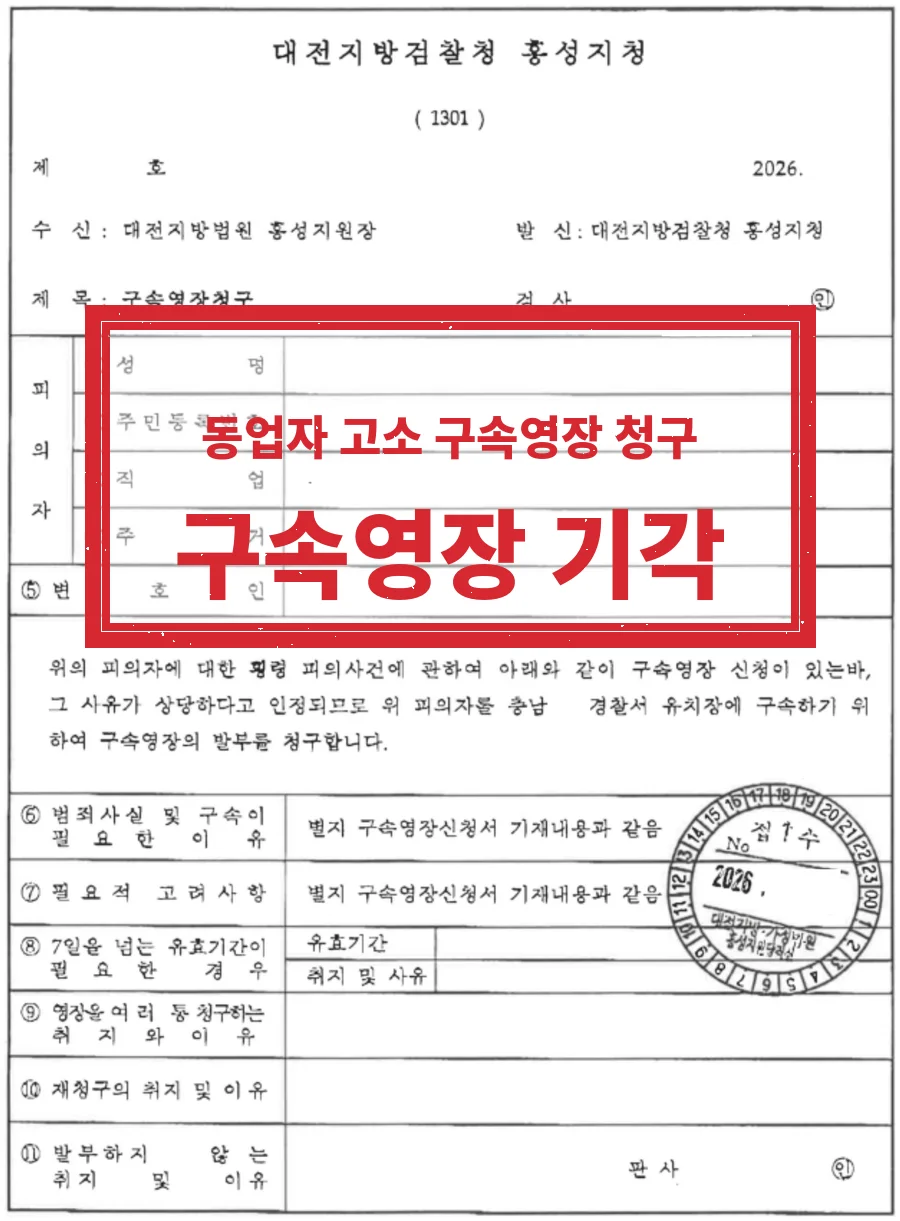
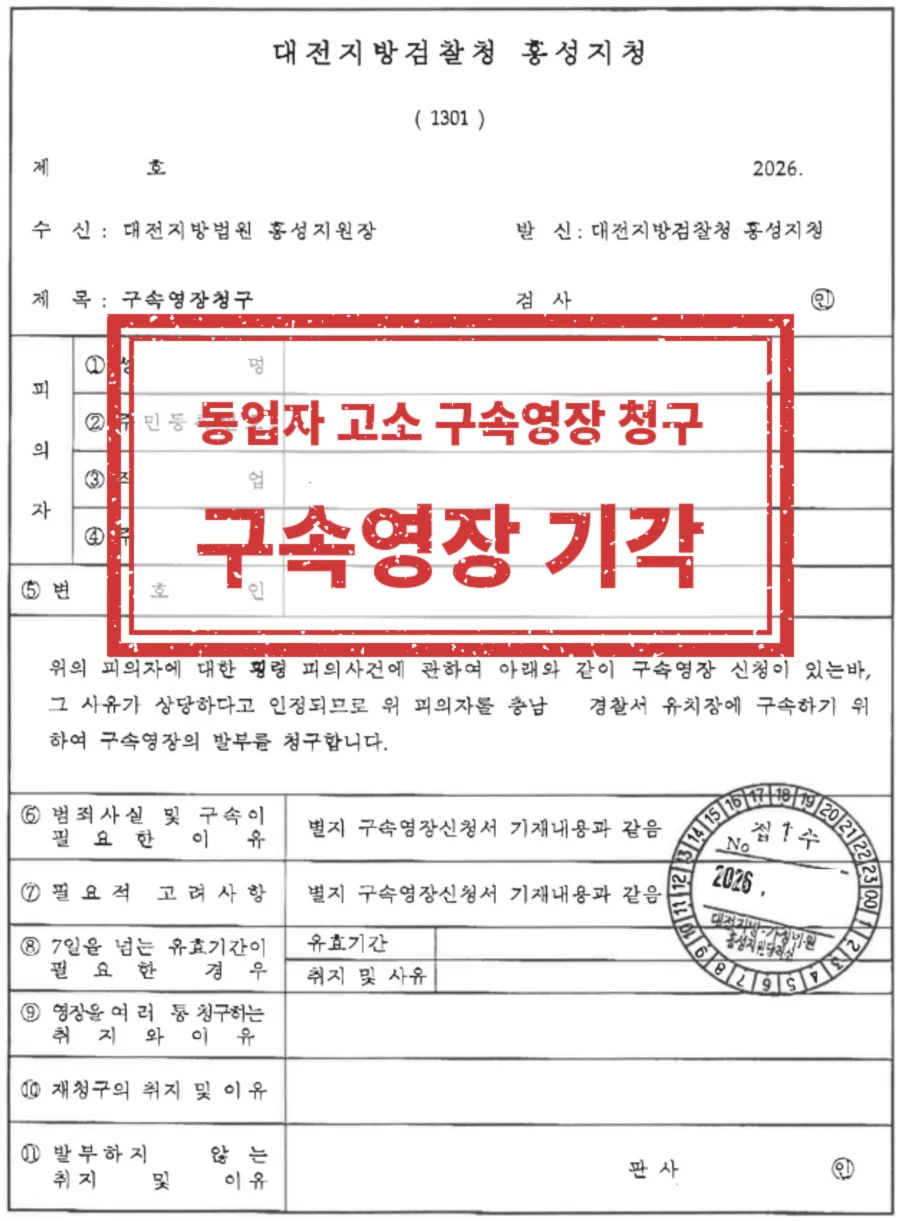
성공사례 case-18 도장 이미지를 기존 사례 도장과 같은 위치·모양으로 다시 제작
Claude-Session: https://claude.ai/code/session_019BpyvRfw1kgAhxY1Ym6REe

Changed region(s): [[0.0933, 0.249, 0.9333, 0.5602]]

diff --git a/guide-gunsan-baeim.html b/guide-gunsan-baeim.html
@@ -198,8 +198,8 @@
       <h2 class="sec-title">법률사무소 차민이 맡았던 관련 사건</h2>
       <div class="cases">
         <article class="case">
-          <a class="case__fig" href="results.html#case-18" data-x="case-18.webp">
-            <img src="images/case-18-thumb.webp" alt="구속영장청구서 — 업무상횡령·사기·무고·폭행치상 구속영장 청구기각" width="1200" height="900" loading="lazy">
+          <a class="case__fig" href="results.html#case-18" data-x="case-18.webp?v=2">
+            <img src="images/case-18-thumb.webp?v=2" alt="구속영장청구서 — 업무상횡령·사기·무고·폭행치상 구속영장 청구기각" width="1200" height="900" loading="lazy">
           </a>
           <div class="case__body">
             <div class="case__top"><span class="case__tag">형사 · 군형사</span></div>

diff --git a/guide-gunsan-dongeop.html b/guide-gunsan-dongeop.html
@@ -198,8 +198,8 @@
       <h2 class="sec-title">법률사무소 차민이 맡았던 관련 사건</h2>
       <div class="cases">
         <article class="case">
-          <a class="case__fig" href="results.html#case-18" data-x="case-18.webp">
-            <img src="images/case-18-thumb.webp" alt="구속영장청구서 — 업무상횡령·사기·무고·폭행치상 구속영장 청구기각" width="1200" height="900" loading="lazy">
+          <a class="case__fig" href="results.html#case-18" data-x="case-18.webp?v=2">
+            <img src="images/case-18-thumb.webp?v=2" alt="구속영장청구서 — 업무상횡령·사기·무고·폭행치상 구속영장 청구기각" width="1200" height="900" loading="lazy">
           </a>
           <div class="case__body">
             <div class="case__top"><span class="case__tag">형사 · 군형사</span></div>

diff --git a/guide-gunsan-gusok-yeongjang.html b/guide-gunsan-gusok-yeongjang.html
@@ -198,8 +198,8 @@
       <h2 class="sec-title">법률사무소 차민이 맡았던 관련 사건</h2>
       <div class="cases">
         <article class="case">
-          <a class="case__fig" href="results.html#case-18" data-x="case-18.webp">
-            <img src="images/case-18-thumb.webp" alt="구속영장청구서 — 업무상횡령·사기·무고·폭행치상 구속영장 청구기각" width="1200" height="900" loading="lazy">
+          <a class="case__fig" href="results.html#case-18" data-x="case-18.webp?v=2">
+            <img src="images/case-18-thumb.webp?v=2" alt="구속영장청구서 — 업무상횡령·사기·무고·폭행치상 구속영장 청구기각" width="1200" height="900" loading="lazy">
           </a>
           <div class="case__body">
             <div class="case__top"><span class="case__tag">형사 · 군형사</span></div>

diff --git a/guide-gunsan-hoengnyeong.html b/guide-gunsan-hoengnyeong.html
@@ -198,8 +198,8 @@
       <h2 class="sec-title">법률사무소 차민이 맡았던 관련 사건</h2>
       <div class="cases">
         <article class="case">
-          <a class="case__fig" href="results.html#case-18" data-x="case-18.webp">
-            <img src="images/case-18-thumb.webp" alt="구속영장청구서 — 업무상횡령·사기·무고·폭행치상 구속영장 청구기각" width="1200" height="900" loading="lazy">
+          <a class="case__fig" href="results.html#case-18" data-x="case-18.webp?v=2">
+            <img src="images/case-18-thumb.webp?v=2" alt="구속영장청구서 — 업무상횡령·사기·무고·폭행치상 구속영장 청구기각" width="1200" height="900" loading="lazy">
           </a>
           <div class="case__body">
             <div class="case__top"><span class="case__tag">형사 · 군형사</span></div>

diff --git a/guide-gunsan-mugo.html b/guide-gunsan-mugo.html
@@ -198,8 +198,8 @@
       <h2 class="sec-title">법률사무소 차민이 맡았던 관련 사건</h2>
       <div class="cases">
         <article class="case">
-          <a class="case__fig" href="results.html#case-18" data-x="case-18.webp">
-            <img src="images/case-18-thumb.webp" alt="구속영장청구서 — 업무상횡령·사기·무고·폭행치상 구속영장 청구기각" width="1200" height="900" loading="lazy">
+          <a class="case__fig" href="results.html#case-18" data-x="case-18.webp?v=2">
+            <img src="images/case-18-thumb.webp?v=2" alt="구속영장청구서 — 업무상횡령·사기·무고·폭행치상 구속영장 청구기각" width="1200" height="900" loading="lazy">
           </a>
           <div class="case__body">
             <div class="case__top"><span class="case__tag">형사 · 군형사</span></div>

diff --git a/guide-gunsan-pokhaeng-sanghae.html b/guide-gunsan-pokhaeng-sanghae.html
@@ -198,8 +198,8 @@
       <h2 class="sec-title">법률사무소 차민이 맡았던 관련 사건</h2>
       <div class="cases">
         <article class="case">
-          <a class="case__fig" href="results.html#case-18" data-x="case-18.webp">
-            <img src="images/case-18-thumb.webp" alt="구속영장청구서 — 업무상횡령·사기·무고·폭행치상 구속영장 청구기각" width="1200" height="900" loading="lazy">
+          <a class="case__fig" href="results.html#case-18" data-x="case-18.webp?v=2">
+            <img src="images/case-18-thumb.webp?v=2" alt="구속영장청구서 — 업무상횡령·사기·무고·폭행치상 구속영장 청구기각" width="1200" height="900" loading="lazy">
           </a>
           <div class="case__body">
             <div class="case__top"><span class="case__tag">형사 · 군형사</span></div>

diff --git a/guide-iksan-hoengnyeong.html b/guide-iksan-hoengnyeong.html
@@ -198,8 +198,8 @@
       <h2 class="sec-title">법률사무소 차민이 맡았던 관련 사건</h2>
       <div class="cases">
         <article class="case">
-          <a class="case__fig" href="results.html#case-18" data-x="case-18.webp">
-            <img src="images/case-18-thumb.webp" alt="구속영장청구서 — 업무상횡령·사기·무고·폭행치상 구속영장 청구기각" width="1200" height="900" loading="lazy">
+          <a class="case__fig" href="results.html#case-18" data-x="case-18.webp?v=2">
+            <img src="images/case-18-thumb.webp?v=2" alt="구속영장청구서 — 업무상횡령·사기·무고·폭행치상 구속영장 청구기각" width="1200" height="900" loading="lazy">
           </a>
           <div class="case__body">
             <div class="case__top"><span class="case__tag">형사 · 군형사</span></div>

diff --git a/practice-criminal.html b/practice-criminal.html
@@ -232,8 +232,8 @@
           </div>
         </article>
         <article class="case" id="case-18" data-cat="criminal">
-          <a class="case__fig" href="images/case-18.webp" target="_blank" rel="noopener">
-            <img src="images/case-18-thumb.webp" alt="구속영장청구서 — 업무상횡령·사기·무고·폭행치상 구속영장 청구기각" width="1200" height="900" loading="lazy">
+          <a class="case__fig" href="images/case-18.webp?v=2" target="_blank" rel="noopener">
+            <img src="images/case-18-thumb.webp?v=2" alt="구속영장청구서 — 업무상횡령·사기·무고·폭행치상 구속영장 청구기각" width="1200" height="900" loading="lazy">
           </a>
           <div class="case__body">
             <div class="case__top"><span class="case__tag">형사 · 군형사</span></div>

diff --git a/results.html b/results.html
@@ -412,8 +412,8 @@
         </article>
 
         <article class="case" id="case-18" data-cat="criminal">
-          <a class="case__fig" href="images/case-18.webp" target="_blank" rel="noopener">
-            <img src="images/case-18-thumb.webp" alt="구속영장청구서 — 업무상횡령·사기·무고·폭행치상 구속영장 청구기각" width="1200" height="900" loading="lazy">
+          <a class="case__fig" href="images/case-18.webp?v=2" target="_blank" rel="noopener">
+            <img src="images/case-18-thumb.webp?v=2" alt="구속영장청구서 — 업무상횡령·사기·무고·폭행치상 구속영장 청구기각" width="1200" height="900" loading="lazy">
           </a>
           <div class="case__body">
             <div class="case__top"><span class="case__tag">형사 · 군형사</span></div>

diff --git a/guide-gunsan-sagi.html b/guide-gunsan-sagi.html
@@ -227,8 +227,8 @@
           </div>
         </article>
         <article class="case">
-          <a class="case__fig" href="results.html#case-18" data-x="case-18.webp">
-            <img src="images/case-18-thumb.webp" alt="구속영장청구서 — 업무상횡령·사기·무고·폭행치상 구속영장 청구기각" width="1200" height="900" loading="lazy">
+          <a class="case__fig" href="results.html#case-18" data-x="case-18.webp?v=2">
+            <img src="images/case-18-thumb.webp?v=2" alt="구속영장청구서 — 업무상횡령·사기·무고·폭행치상 구속영장 청구기각" width="1200" height="900" loading="lazy">
           </a>
           <div class="case__body">
             <div class="case__top"><span class="case__tag">형사 · 군형사</span></div>
